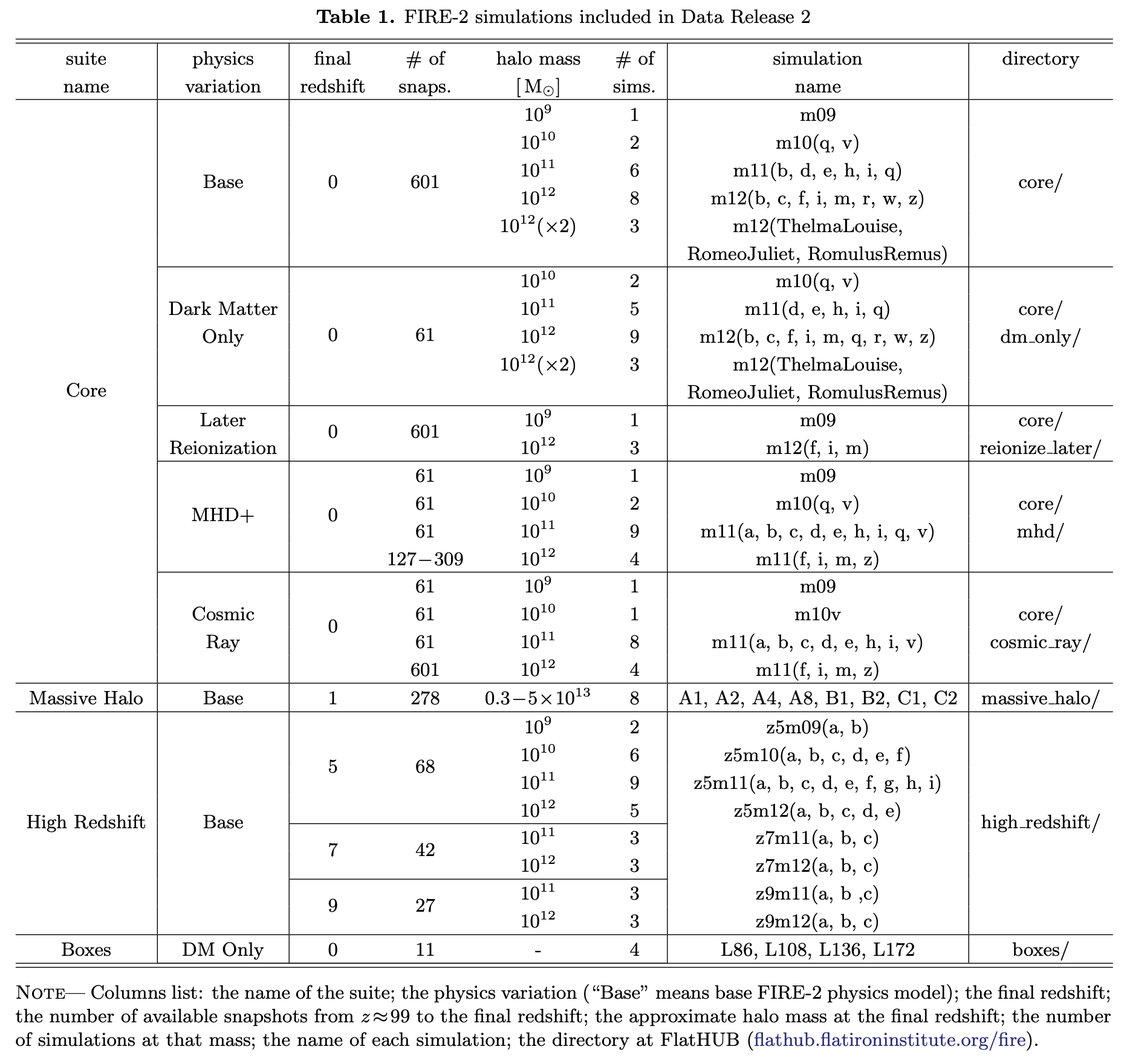
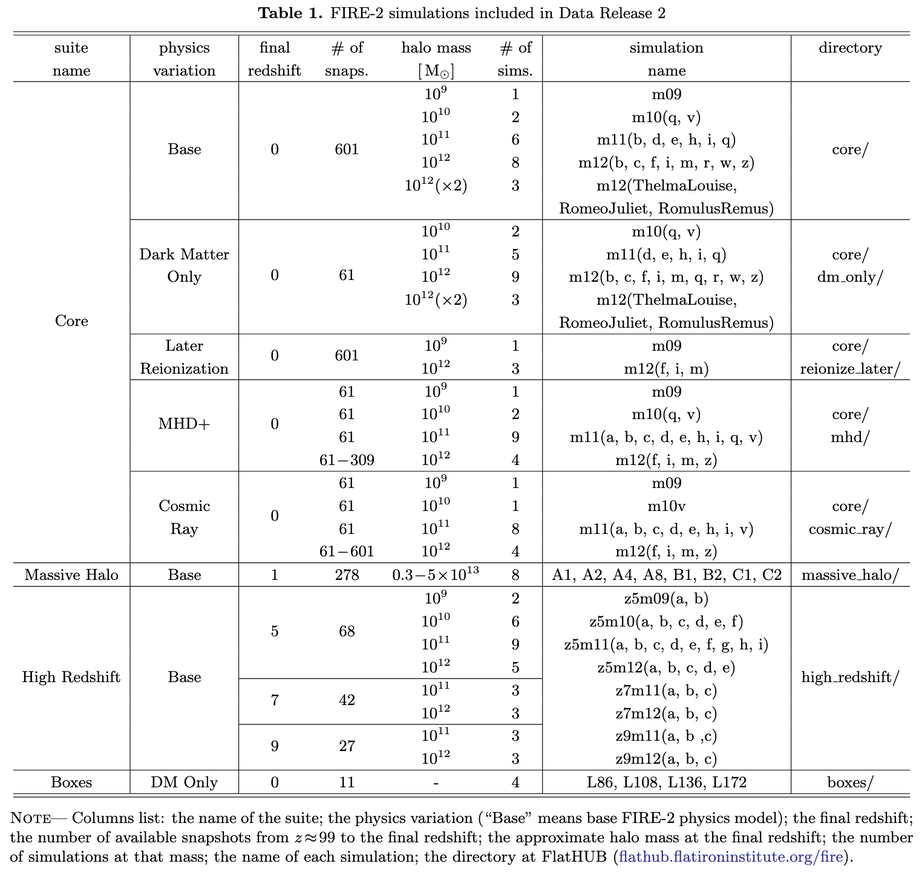
fixed typos and formatting in FIRE data release page (#132)
* test edits

* updates

* more additions

* added physics variations

* formatting

* more formatting, added table link

* added table

* minor formatting

* minor edits

* fixed url link

* fixed typos and added arxiv link to DR2 paper

* fixed broken link

* test push to fix broken link

* maybe fixed broken link

* formatting updates

* more fixes

* italics not rendering...

* fixed formatting

* minor formatting

* more formatting

* Add files via upload

diff --git a/html/fire.html b/html/fire.html
@@ -17,166 +17,196 @@
           <div class="body-copy">
             <h4>Project summary</h4>
             <p>
-            The <a class="underline" target="_blank" rel="noopener" href="https://fire.northwestern.edu">FIRE (Feedback In Realistic Environments)</a> project, introduced in <a class="underline" target="_blank" rel="noopener" href="https://ui.adsabs.harvard.edu/abs/2014MNRAS.445..581H/abstract">Hopkins et al. (2014)</a>, seeks to improve the predictive power of simulations of galaxy formation, by developing cosmological simulations that resolve the interstellar medium of individual galaxies, while implementing the major channels of stellar feedback as directly as possible from stellar evolution models, all in realistic cosmological environments. FIRE simulations typically zoom in on a region around a single primary galaxy or group of galaxies, to achieve parsec-scale resolution within a cosmological context. For more details see the <a
-              class="underline"
-              target="_blank"
-              rel="noopener"
-              href="https://fire.northwestern.edu"
-              >FIRE homepage</a>.
+              The <a class="underline" target="_blank" rel="noopener" href="https://fire.northwestern.edu">FIRE (Feedback In Realistic Environments)</a>
+              project, introduced in <a class="underline" target="_blank" rel="noopener" href="https://ui.adsabs.harvard.edu/abs/2014MNRAS.445..581H/abstract">Hopkins et al. (2014)</a>,
+              seeks to improve the predictive power of simulations of galaxy formation, by developing
+              cosmological simulations that resolve the interstellar medium of individual galaxies, while implementing
+              the major channels of stellar feedback as directly as possible from stellar evolution models, all in
+              realistic cosmological environments. FIRE simulations typically zoom in on a region around a single
+              primary galaxy or group of galaxies, to achieve parsec-scale resolution within a cosmological context. For
+              more details see the
+              <a class="underline" target="_blank" rel="noopener" href="https://fire.northwestern.edu">FIRE homepage</a>.
             </p>
 
             <p>
-            This is the main page for accessing publicly available FIRE-2 simulation data. Most FIRE-2 data is in HDF5 file format.
+              This is the main page for accessing publicly available FIRE-2 simulation data,
+              which currently comprises 119 different simulations. These data are in HDF5 file format.
             </p>
 
             <p>
             <h4>Documentation</h4>
-            <li><a href="https://ui.adsabs.harvard.edu/abs/2023ApJS..265...44W/abstract" class="underline" target="_blank" rel="noopener">Wetzel et al. (2023)</a> is the primary documentation (and primary citation) for FIRE-2 public data. It describes Data Release 1 (DR1), including explanations of the physical models that go into the FIRE-2 simulations, the contents of snapshots, the catalogs of (sub)halos and their galaxies, and various analysis tools</li>
-            <li><a href="https://arxiv.org/abs/2508.06608" class="underline" target="_blank" rel="noopener">Wetzel et al. (2025)</a> describes the new data in Data Release 2 (DR2), including simulations with physics variations, and halo merger trees</li>
-            <li><a href="https://ui.adsabs.harvard.edu/abs/2018MNRAS.480..800H/abstract" class="underline" target="_blank" rel="noopener">Hopkins et al. (2018)</a> describes the FIRE-2 physics model used to generate these simulations</li>
-            <li><a href="https://ui.adsabs.harvard.edu/abs/2015MNRAS.450...53H/abstract" class="underline" target="_blank" rel="noopener">Hopkins 2015</a> and <a href="http://www.tapir.caltech.edu/~phopkins/Site/GIZMO.html" class="underline" target="_blank" rel="noopener">this website</a> describe the publicly-available Gizmo code used to generate the FIRE simulations</li>
-            <li><a class="underline" target="_blank" rel="noopener" href="http://www.tapir.caltech.edu/~phopkins/Site/GIZMO_files/gizmo_documentation.html#snaps-snaps">This page</a> provides more detailed documentation of the contents of Gizmo snapshots files</li>
+            <li>
+              <a href="https://ui.adsabs.harvard.edu/abs/2023ApJS..265...44W/abstract" class="underline" target="_blank" rel="noopener">Wetzel et al. (2023)</a>
+              is the primary documentation (and primary citation) for FIRE-2 public data.
+              It describes Data Release 1 (DR1), including explanations of the physical models that go into the FIRE-2 simulations,
+              the contents of snapshots, the catalogs of (sub)halos and their galaxies, and various analysis tools
+            </li>
+            <li>
+              <a href="https://arxiv.org/abs/2508.06608" class="underline" target="_blank" rel="noopener">Wetzel et al. (2025)</a>
+              describes the new data in Data Release 2 (DR2), including simulations with physics variations, and halo merger trees
+            </li>
+            <li>
+              <a href="https://ui.adsabs.harvard.edu/abs/2018MNRAS.480..800H/abstract" class="underline" target="_blank" rel="noopener">Hopkins et al. (2018)</a>
+              describes the FIRE-2 physics model used to generate these simulations
+            </li>
+            <li>
+              <a href="https://ui.adsabs.harvard.edu/abs/2015MNRAS.450...53H/abstract" class="underline" target="_blank" rel="noopener">Hopkins 2015</a>
+                and
+                <a href="http://www.tapir.caltech.edu/~phopkins/Site/GIZMO.html" class="underline" target="_blank" rel="noopener">this website</a>
+                describe the publicly-available Gizmo code used to generate the FIRE simulations
+            </li>
+            <li>
+              <a class="underline" target="_blank" rel="noopener" href="http://www.tapir.caltech.edu/~phopkins/Site/GIZMO_files/gizmo_documentation.html#snaps-snaps">This page</a>
+                provides more detailed documentation of the contents of Gizmo snapshots files
+              </li>
             </p>
-       
+
             <h4>License and citing</h4>
-            <p>We release FIRE-2 data under the <a class="underline" target="_blank" rel="noopener" href="https://creativecommons.org/licenses/by/4.0/">Creative Commons BY 4.0</a> license. If you use these data, we request that you cite as follows:
+            <p>
+              We release FIRE-2 data under the <a class="underline" target="_blank" rel="noopener" href="https://creativecommons.org/licenses/by/4.0/">Creative Commons BY 4.0</a>
+              license. If you use these data, we request that you cite as follows:
             </p>
             <p>
-            “We use the publicly-available FIRE-2 cosmological zoom-in simulations (<a href="https://ui.adsabs.harvard.edu/abs/2023ApJS..265...44W/abstract" class="underline" target="_blank" rel="noopener">Wetzel et al. 2023</a>, <a href="https://arxiv.org/abs/2508.06608" class="underline" target="_blank" rel="noopener">2025</a>), from the Feedback In Realistic Environments (FIRE) project, generated using the Gizmo code (<a class="underline" target="_blank" rel="noopener" href="https://ui.adsabs.harvard.edu/abs/2015MNRAS.450...53H/abstract">Hopkins 2015</a>) and the FIRE-2 physics model <a class="underline" target="_blank" rel="noopener" href="https://ui.adsabs.harvard.edu/abs/2018MNRAS.480..800H/abstract">(Hopkins et al. 2018)</a>."
+              “We use the publicly-available FIRE-2 cosmological zoom-in simulations
+              (<a href="https://ui.adsabs.harvard.edu/abs/2023ApJS..265...44W/abstract" class="underline" target="_blank" rel="noopener">Wetzel et al. 2023</a>,
+              <a href="https://arxiv.org/abs/2508.06608" class="underline" target="_blank" rel="noopener">2025</a>),
+              from the Feedback In Realistic Environments (FIRE) project, generated using the Gizmo code
+              <a class="underline" target="_blank" rel="noopener" href="https://ui.adsabs.harvard.edu/abs/2015MNRAS.450...53H/abstract">(Hopkins 2015)</a>
+              and the FIRE-2 physics model
+              <a class="underline" target="_blank" rel="noopener" href="https://ui.adsabs.harvard.edu/abs/2018MNRAS.480..800H/abstract">(Hopkins et al. 2018)</a>."
+            </p>
             <p>
-            We also request users to cite the individual published article(s) that introduced each simulation used, as listed in Tables 1, 2, 3 in <a href="https://ui.adsabs.harvard.edu/abs/2023ApJS..265...44W/abstract" class="underline" target="_blank" rel="noopener">Wetzel et al. (2023)</a> for the simulations first released in Data Release 1, or as listed in <a href="https://arxiv.org/abs/2508.06608" class="underline" target="_blank" rel="noopener">Wetzel et al. (2025)</a> for the simulations first released in Data Release 2. See also below.
+              We also request users to cite the individual published article(s) that introduced each simulation used, as listed in Tables 1, 2, 3 in
+              <a href="https://ui.adsabs.harvard.edu/abs/2023ApJS..265...44W/abstract" class="underline" target="_blank" rel="noopener">Wetzel et al. (2023)</a>
+              for the simulations first released in Data Release 1, or as listed in
+              <a href="https://arxiv.org/abs/2508.06608" class="underline" target="_blank" rel="noopener">Wetzel et al. (2025)</a>
+              for the simulations first released in Data Release 2. See also below.
             </p>
-            </p>
-          </div>
-        </div>
-      </div>
-    </div>
-  </div>
-  
-  <div class="section">
-    <div class="container">
-      <div class="row">
-        <div class="col-md">
-          <div class="body-copy">
+
             <h4>Contents</h4>
-            <img
-              src="/web/assets/fire2-table.png"
-              style="display: block; max-width: 100%; width: 1200px"
-            />
-            <h5 style="text-decoration: underline;">Core suite to z = 0</h5>
-            <p>The Core suite comprises 20 simulations that zoom in on 14 Milky Way-mass galaxies, 5 SMC/LMC-mass galaxies, and 4 lower-mass galaxies, including 1 ultrafaint. For each simulation, we include all 601 snapshots across z = 0 − 99, including catalogs of (sub)halos and their galaxies at all snapshots and full merger trees. We also include files for tracking particles across snapshots, and for all star particles today, their 3-D formation coordinates and an "ex-situ" flag. For the Milky Way-mass galaxies, we also include catalogs of streams, and various representations of the gravitational potential.</p>
-            <p>The following articles introduced each of these simulations. Anyone using a given simulation also should cite that article.</p>
+
+            <img src="/web/assets/fire2-table.png" style="display: block; max-width: 100%; width: 1200px" />
+
+            <h4>Core suite to z = 0</h4>
+            <p>
+              The Core suite comprises 20 simulations that zoom in on 14 Milky Way-mass galaxies, 5 SMC/LMC-mass
+              galaxies, and 4 lower-mass galaxies, including 1 ultrafaint. For each simulation, we include all 601
+              snapshots across z = 0 − 99, catalogs of (sub)halos and their galaxies at all snapshots and full
+              merger trees, and files for tracking star and gas particles across snapshots. For all star particles
+              at z = 0, we also include a files that list their 3-D formation coordinates,
+              and an "ex-situ" flag to indicate if they formed outside of the primary galaxy.
+              For the Milky Way-mass galaxies, we also include catalogs of stellar streams and various representations
+              of the gravitational potential.
+            </p>
+
+            <p>
+              The following articles introduced each of these simulations. Anyone using a given simulation also should cite that article.
+            </p>
+
             <li>
-              m09, m10q, m10v:
-              <a
-                class="underline"
-                target="_blank"
-                rel="noopener"
-                href="https://ui.adsabs.harvard.edu/abs/2019MNRAS.490.4447W/abstract"
-                >Wheeler et al. (2019)</a>
+              m09, m10q, m10v
+              <a class="underline" target="_blank" rel="noopener" href="https://ui.adsabs.harvard.edu/abs/2019MNRAS.490.4447W/abstract">(Wheeler et al. 2019)</a>
             </li>
             <li>
-              m11b:
-              <a
-                class="underline"
-                target="_blank"
-                rel="noopener"
-                href="https://ui.adsabs.harvard.edu/abs/2018MNRAS.478..906C/abstract"
-                >Chan et al. (2018)</a>
+              m11b
+              <a class="underline" target="_blank" rel="noopener" href="https://ui.adsabs.harvard.edu/abs/2018MNRAS.478..906C/abstract">(Chan et al. 2018)</a>
             </li>
             <li>
-              m11d, m11e, m11h, m11i:
-              <a
-                class="underline"
-                target="_blank"
-                rel="noopener"
-                href="https://ui.adsabs.harvard.edu/abs/2018MNRAS.473.1930E/abstract"
-                >El-Badry et al. (2018)</a>
+              m11d, m11e, m11h, m11i
+              <a class="underline" target="_blank" rel="noopener" href="https://ui.adsabs.harvard.edu/abs/2018MNRAS.473.1930E/abstract">(El-Badry et al. 2018)</a>
             </li>
             <li>
-              m11q, m12m:
-              <a
-                class="underline"
-                target="_blank"
-                rel="noopener"
-                href="https://ui.adsabs.harvard.edu/abs/2018MNRAS.480..800H/abstract"
-                >Hopkins et al. (2018)</a>
+              m11q, m12m
+              <a class="underline" target="_blank" rel="noopener" href="https://ui.adsabs.harvard.edu/abs/2018MNRAS.480..800H/abstract">(Hopkins et al. 2018)</a>
             </li>
             <li>
-              m12i:
-              <a
-                class="underline"
-                target="_blank"
-                rel="noopener"
-                href="https://ui.adsabs.harvard.edu/abs/2016ApJ...827L..23W/abstract"
-                >Wetzel et al. (2016)</a>
-            </li>
-            <li>
-              m12z, m12b, m12c:
-              <a
-                class="underline"
-                target="_blank"
-                rel="noopener"
-                href="https://ui.adsabs.harvard.edu/abs/2019MNRAS.487.1380G/abstract"
-                >Garrison-Kimmel et al. (2019a)</a>
-            </li>
-            <li>
-              m12f, m12_elvis_RomeoJuliet, m12_elvis_ThelmaLouise:
-              <a
-                class="underline"
-                target="_blank"
-                rel="noopener"
-                href="https://ui.adsabs.harvard.edu/abs/2017MNRAS.471.1709G/abstract"
-                >Garrison-Kimmel et al. (2017)</a>
-            </li>
-            <li>
-              m12_elvis_RomulusRemus:
-              <a
-                class="underline"
-                target="_blank"
-                rel="noopener"
-                href="https://ui.adsabs.harvard.edu/abs/2019MNRAS.489.4574G/abstract"
-                >Garrison-Kimmel et al. (2019b)</a>
-            </li>
-            <li>
-              m12r, m12w:
-              <a
-                class="underline"
-                target="_blank"
-                rel="noopener"
-                href="https://ui.adsabs.harvard.edu/abs/2020MNRAS.491.1471S/abstract"
-                >Samuel et al. (2020)</a>
-            </li>
-            <p>For a subset of Core simulations to z = 0, we also include the following physics variations:</p>
-              <li>
-              <i>Dark Matter Only</i> (19 simulations): model only dark matter (users should cite the work that introduced the corresponding baryonic simulation, as listed above and in Table 1 of <a href="https://ui.adsabs.harvard.edu/abs/2023ApJS..265...44W/abstract" class="underline" target="_blank" rel="noopener">Wetzel et al. 2023</a>)
+              m12i
+              <a class="underline" target="_blank" rel="noopener" href="https://ui.adsabs.harvard.edu/abs/2016ApJ...827L..23W/abstract">(Wetzel et al. 2016)</a>
               </li>
-              <li>
-              <i>Later Reionization</i> (4 simulations): use an updated ultraviolet background, which undergoes later cosmic reionization at z = 7.8, instead of at z ~ 10 as in other FIRE-2 simulations (introduced in/cite <a href="https://ui.adsabs.harvard.edu/abs/2022MNRAS.516.1941G/abstract" class="underline" target="_blank" rel="noopener">Gandhi et al. 2022</a> for m09, <a href="https://arxiv.org/abs/2508.06608" class="underline" target="_blank" rel="noopener">Wetzel et al. 2025</a> for m12f, m12i, m12m)
+            <li>
+              m12z, m12b, m12c
+              <a class="underline" target="_blank" rel="noopener" href="https://ui.adsabs.harvard.edu/abs/2019MNRAS.487.1380G/abstract">(Garrison-Kimmel et al. 2019a)</a>
+            </li>
+            <li>
+              m12f, m12_elvis_RomeoJuliet, m12_elvis_ThelmaLouise
+              <a class="underline" target="_blank" rel="noopener" href="https://ui.adsabs.harvard.edu/abs/2017MNRAS.471.1709G/abstract">(Garrison-Kimmel et al. 2017)</a>
+            </li>
+            <li>
+              m12_elvis_RomulusRemus
+              <a class="underline" target="_blank" rel="noopener" href="https://ui.adsabs.harvard.edu/abs/2019MNRAS.489.4574G/abstract">(Garrison-Kimmel et al. 2019b)</a>
               </li>
-              <li>
-              </i>MHD+</i> (16 simulations): include magnetohydrodynamics, as well as anisotropic conduction and viscosity in gas (introduced in/cite <a href="https://ui.adsabs.harvard.edu/abs/2020MNRAS.492.3465H/abstract" class="underline" target="_blank" rel="noopener">Hopkins et al. 2020</a>)
-              </li>
-              <li>
-              <i>Cosmic Ray</i> (14 simulations): in addition to MHD+, these model the injection, transport, and feedback of cosmic rays from supernovae, assuming a constant diffusion coefficient (introduced in/cite <a href="https://ui.adsabs.harvard.edu/abs/2020MNRAS.492.3465H/abstract" class="underline" target="_blank" rel="noopener">Hopkins et al. 2020</a>)
-              </li>
-          </div>
-          <div class="body-copy">
-            <h5 style="text-decoration: underline;">Massive Halo suite to z = 1</h5>
-            <p>The Massive Halo suite comprises 8 massive galaxies: A1, A2, A4, A8 from <a class="underline" target="_blank" rel="noopener" href="https://ui.adsabs.harvard.edu/abs/2017MNRAS.472L.109A/abstract">Anglés-Alcázar et al. (2017)</a>, and B1, B2, C1, C2 from <a class="underline" target="_blank" rel="noopener" href="https://ui.adsabs.harvard.edu/abs/2023MNRAS.518.5522C/abstract">Cochrane et al. (2023)</a>, all run to z = 1. We selected these halos from the FIRE-1 MassiveFIRE suite (<a class="underline" target="_blank" rel="noopener" href="https://ui.adsabs.harvard.edu/abs/2016MNRAS.458L..14F/abstract">Feldmann et al. 2016</a>, <a class="underline" target="_blank" rel="noopener" href="https://ui.adsabs.harvard.edu/abs/2017MNRAS.470.1050F/abstract">2017</a>). For each simulation, we release 278 snapshots across z = 1 - 99. These halos have masses \(M_{\rm halo} = 10^{12-13.5} M_{\odot}\) at z = 1. Four simulations (A1, A2, A4, A8) include massive black hole growth, but none of these simulations include AGN feedback, which results in overly massive galaxies with ultra-dense nuclear stellar distributions at late times. Anyone using these simulations should cite <a class="underline" target="_blank" rel="noopener" href="https://ui.adsabs.harvard.edu/abs/2017MNRAS.472L.109A/abstract">Anglés-Alcázar et al. (2017)</a> and/or <a class="underline" target="_blank" rel="noopener" href="https://ui.adsabs.harvard.edu/abs/2023MNRAS.518.5522C/abstract">Cochrane et al. (2023)</a>.</p>
-          </div>
-        </div>
-        <div class="col-md">
-          <div class="body-copy">
-            <h5 style="text-decoration: underline;">High Redshift suite to z = 5</h5>
-            <p>This suite comprises 34 simulations that target halos with \(M_{\rm halo} = 10^{9-12} M_{\odot}\) at z = 5 - 9, from <a class="underline" target="_blank" rel="noopener" href="https://ui.adsabs.harvard.edu/abs/2018MNRAS.478.1694M/abstract">Ma et al. (2018)</a>, <a class="underline" target="_blank" rel="noopener" href="https://ui.adsabs.harvard.edu/abs/2019MNRAS.487.1844M/abstract">Ma et al. (2019)</a>, <a class="underline" target="_blank" rel="noopener" href="https://ui.adsabs.harvard.edu/abs/2020MNRAS.493.4315M/abstract">Ma et al. (2020)</a>.
-            22 of these simulations are run from z = 99 to z = 5 (with 68 snapshots), 6 are run to z = 7 (with 42 snaphots), and 6 are run to z = 9 (with 27 snasphots). In addition to the primary galaxy, there are many lower-mass galaxies within each zoom-in region, so the High Redshift suite contains thousands of resolved galaxies at each snapshot. Anyone using these simulations should the Ma et al. articles above.</p>
-          </div>
-        </div>
-      <div class="col-md">
-          <div class="body-copy">
-            <h5 style="text-decoration: underline;">Cosmological Boxes to z = 0</h5>
-            <p>This suite comprises 4 dark-matter-only cosmological boxes that we used to generate zoom-in initial conditions for many (but not all) of the FIRE simulations. These boxes have comoving side lengths of 86 Mpc, 108 Mpc, 136 Mpc, and 172 Mpc, each each one differs in mass resolution by a factor of 2. Anyone using these cosmological boxes should cite <a href="https://arxiv.org/abs/2508.06608" class="underline" target="_blank" rel="noopener">Wetzel et al. (2025)</a>.</p>
+            <li>
+              m12r, m12w
+              <a class="underline" target="_blank" rel="noopener" href="https://ui.adsabs.harvard.edu/abs/2020MNRAS.491.1471S/abstract">(Samuel et al. 2020)</a>
+            </li>
+
+            <p>
+              For a subset of Core simulations to z = 0, we also include the following physics variations:
+            </p>
+            <li>
+              <i>Dark Matter Only</i> (19 simulations): model only dark matter (cite the work that
+              introduced the corresponding baryonic simulation, as listed above and in Table 1 of
+              <a href="https://ui.adsabs.harvard.edu/abs/2023ApJS..265...44W/abstract" class="underline" target="_blank" rel="noopener">Wetzel et al. 2023</a>)
+            </li>
+            <li>
+              <i>Later Reionization</i> (4 simulations): use an updated ultraviolet background, which undergoes later
+              cosmic reionization at z = 7.8, instead of at z ~ 10 as in other FIRE-2 simulations (introduced in/cite
+              <a href="https://ui.adsabs.harvard.edu/abs/2022MNRAS.516.1941G/abstract" class="underline" target="_blank" rel="noopener">Gandhi et al. 2022</a>
+              for m09,
+              <a href="https://arxiv.org/abs/2508.06608" class="underline" target="_blank" rel="noopener">Wetzel et al. 2025</a>
+              for m12f, m12i, m12m)
+            </li>
+            <li>
+              </i>MHD+</i> (16 simulations): include magnetohydrodynamics, as well as anisotropic conduction and
+              viscosity in gas (introduced in/cite
+              <a href="https://ui.adsabs.harvard.edu/abs/2020MNRAS.492.3465H/abstract" class="underline" target="_blank" rel="noopener">Hopkins et al. 2020</a>)
+            </li>
+            <li>
+              <i>Cosmic Ray</i> (14 simulations): in addition to MHD+, these model the injection, transport, and
+              feedback of cosmic rays from supernovae, assuming a constant diffusion coefficient (introduced in/cite
+              <a href="https://ui.adsabs.harvard.edu/abs/2020MNRAS.492.3465H/abstract" class="underline" target="_blank" rel="noopener">Hopkins et al. 2020</a>)
+            </li>
+
+            <h4>Massive Halo suite to z = 1</h4>
+            <p>
+              The Massive Halo suite comprises 8 massive galaxies: A1, A2, A4, A8 from
+              <a class="underline" target="_blank" rel="noopener" href="https://ui.adsabs.harvard.edu/abs/2017MNRAS.472L.109A/abstract">Anglés-Alcázar et al. (2017)</a>,
+              and B1, B2, C1, C2 from
+              <a class="underline" target="_blank" rel="noopener" href="https://ui.adsabs.harvard.edu/abs/2023MNRAS.518.5522C/abstract">Cochrane et al. (2023)</a>,
+              all run to z = 1. We selected these halos from the FIRE-1 MassiveFIRE suite
+              (<a class="underline" target="_blank" rel="noopener" href="https://ui.adsabs.harvard.edu/abs/2016MNRAS.458L..14F/abstract">Feldmann et al. 2016</a>,
+              <a class="underline" target="_blank" rel="noopener" href="https://ui.adsabs.harvard.edu/abs/2017MNRAS.470.1050F/abstract">2017</a>).
+              Each simulation includes 278 snapshots across z = 1 - 99.
+              These halos have masses \(M_{\rm halo} = 10^{12-13.5} M_{\odot}\) at z = 1.
+              Four simulations (A1, A2, A4, A8) include massive black hole growth, but none of these
+              simulations include AGN feedback, which results in overly massive galaxies with ultra-dense nuclear
+              stellar distributions at late times. Anyone using these simulations should cite
+              <a class="underline" target="_blank" rel="noopener" href="https://ui.adsabs.harvard.edu/abs/2017MNRAS.472L.109A/abstract">Anglés-Alcázar et al. (2017)</a>
+              and/or
+              <a class="underline" target="_blank" rel="noopener" href="https://ui.adsabs.harvard.edu/abs/2023MNRAS.518.5522C/abstract">Cochrane et al. (2023)</a>.
+            </p>
+
+            <h4>High Redshift suite to z = 5</h4>
+            <p>
+              This suite comprises 34 simulations that target halos with \(M_{\rm halo} = 10^{9-12} M_{\odot}\) at z = 5 - 9, from
+              <a class="underline" target="_blank" rel="noopener" href="https://ui.adsabs.harvard.edu/abs/2018MNRAS.478.1694M/abstract">Ma et al. (2018)</a>,
+              <a class="underline" target="_blank" rel="noopener" href="https://ui.adsabs.harvard.edu/abs/2019MNRAS.487.1844M/abstract">Ma et al. (2019)</a>,
+              <a class="underline" target="_blank" rel="noopener" href="https://ui.adsabs.harvard.edu/abs/2020MNRAS.493.4315M/abstract">Ma et al. (2020)</a>.
+              All simulations start at z = 99.
+              22 of them are run to z = 5 (68 snapshots), 6 are run to z = 7 (42 snaphots),
+              and 6 are run to z = 9 (27 snasphots). In addition to the primary galaxy, there are many
+              lower-mass galaxies within each zoom-in region, so the High Redshift suite contains thousands of resolved
+              galaxies at each snapshot. Anyone using these simulations should the Ma et al. articles above.
+            </p>
+
+            <h4>Cosmological Boxes to z = 0</h4>
+            <p>
+              This suite comprises 4 dark-matter-only cosmological boxes that we used to generate zoom-in initial
+              conditions for many (but not all) of the FIRE simulations. These boxes have comoving side lengths of 86
+              Mpc, 108 Mpc, 136 Mpc, and 172 Mpc, and each each one differs in mass resolution by a factor of 2.
+              Anyone using these cosmological boxes should cite
+              <a href="https://arxiv.org/abs/2508.06608" class="underline" target="_blank" rel="noopener">Wetzel et al. (2025)</a>.
+            </p>
           </div>
         </div>
       </div>
@@ -186,8 +216,14 @@
           <div class="box-content">
             <div class="box-copy">
               <div class="box-head">Python analysis tools</div>
-              <p class="box-desc"><a class="underline" target="_blank" rel="noopener" href="https://bitbucket.org/awetzel/gizmo_analysis/src/master/">GizmoAnalysis python package to read and analyze FIRE snapshots</a></p>
-              <p class="box-desc"><a class="underline" target="_blank" rel="noopener" href="https://bitbucket.org/awetzel/halo_analysis/src/master/">HaloAnalysis python package to read and analyze catalogs of (sub)halos/galaxies and merger trees</a></p>
+              <p class="box-desc"><a class="underline" target="_blank" rel="noopener"
+                  href="https://bitbucket.org/awetzel/gizmo_analysis/src/master/">
+                  GizmoAnalysis python package to read and analyze FIRE snapshots</a>
+              </p>
+              <p class="box-desc"><a class="underline" target="_blank" rel="noopener"
+                  href="https://bitbucket.org/awetzel/halo_analysis/src/master/">
+                  HaloAnalysis python package to read and analyze catalogs of (sub)halos/galaxies and merger trees</a>
+              </p>
             </div>
           </div>
         </div>
@@ -196,14 +232,17 @@
           <div class="box-content">
             <div class="box-copy">
               <div class="box-head">Accessing data</div>
-              <p class="box-desc">To explore and download FIRE data, use this Globus ID, or click the "Browse" link to browse the avaiable data in your web browser.</p>
+              <p class="box-desc">To explore and download FIRE data, use this Globus ID, or click the "Browse" link to
+                browse the avaiable data in your web browser.</p>
               <p class="box-desc">
-                <b>Globus ID:</b> <a class="underline" target="_blank" rel="noopener" href="https://app.globus.org/file-manager?origin_id=d41e7ead-0fca-4715-bc72-24630cebe04b&origin_path=%2F&two_pane=true">d41e7ead-0fca-4715-bc72-24630cebe04b</a>
-                <br/>
+                <b>Globus ID:</b> <a class="underline" target="_blank" rel="noopener"
+                  href="https://app.globus.org/file-manager?origin_id=d41e7ead-0fca-4715-bc72-24630cebe04b&origin_path=%2F&two_pane=true">d41e7ead-0fca-4715-bc72-24630cebe04b</a>
+                <br />
                 <b>Display Name:</b> FIRE2 Public Release
               </p>
             </div>
-            <a class="button" target="_blank" rel="noopener" href="https://users.flatironinstitute.org/~mgrudic/fire2_public_release/.">Browse</a>
+            <a class="button" target="_blank" rel="noopener"
+              href="https://users.flatironinstitute.org/~mgrudic/fire2_public_release/.">Browse</a>
           </div>
         </div>
       </div>
